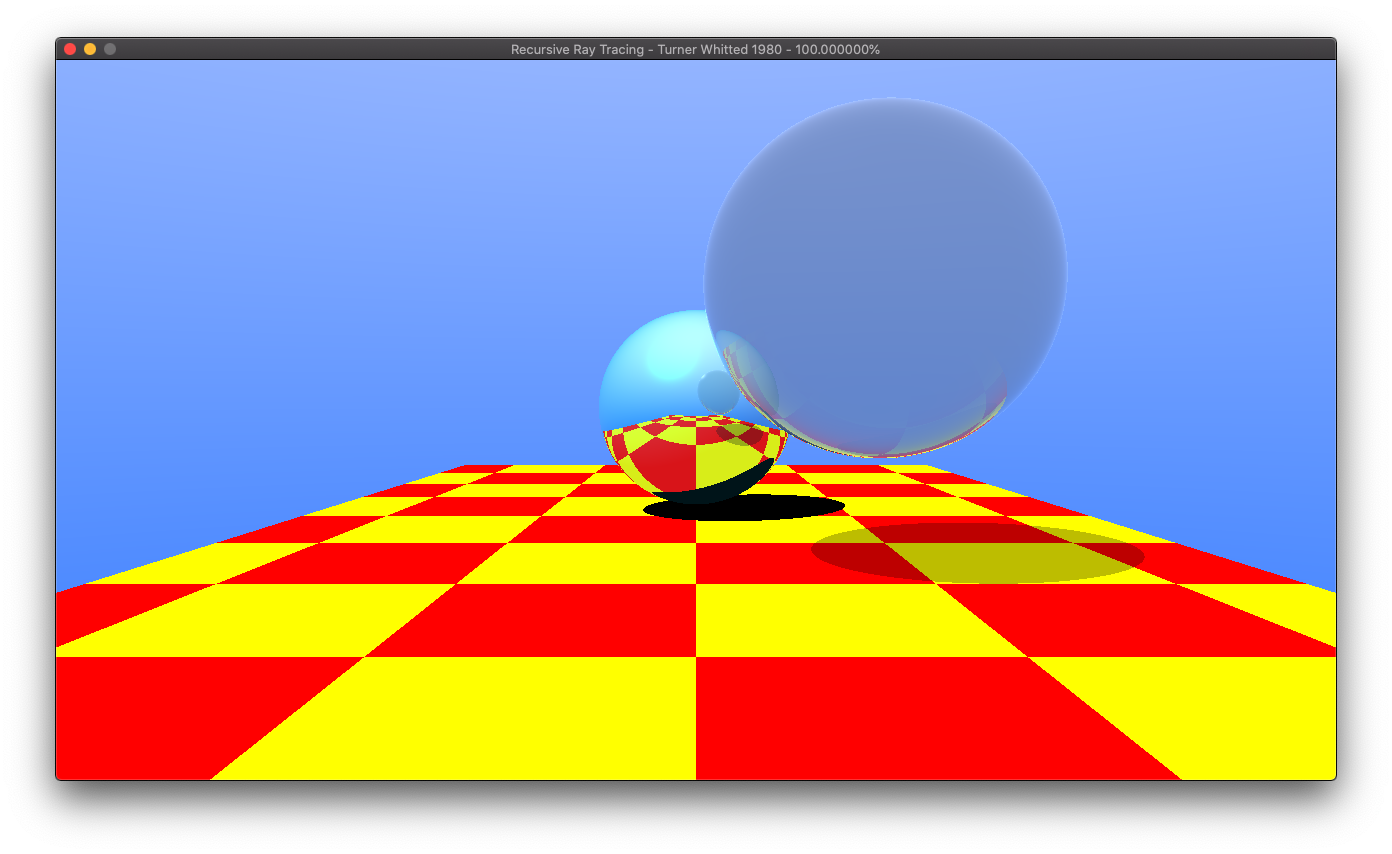
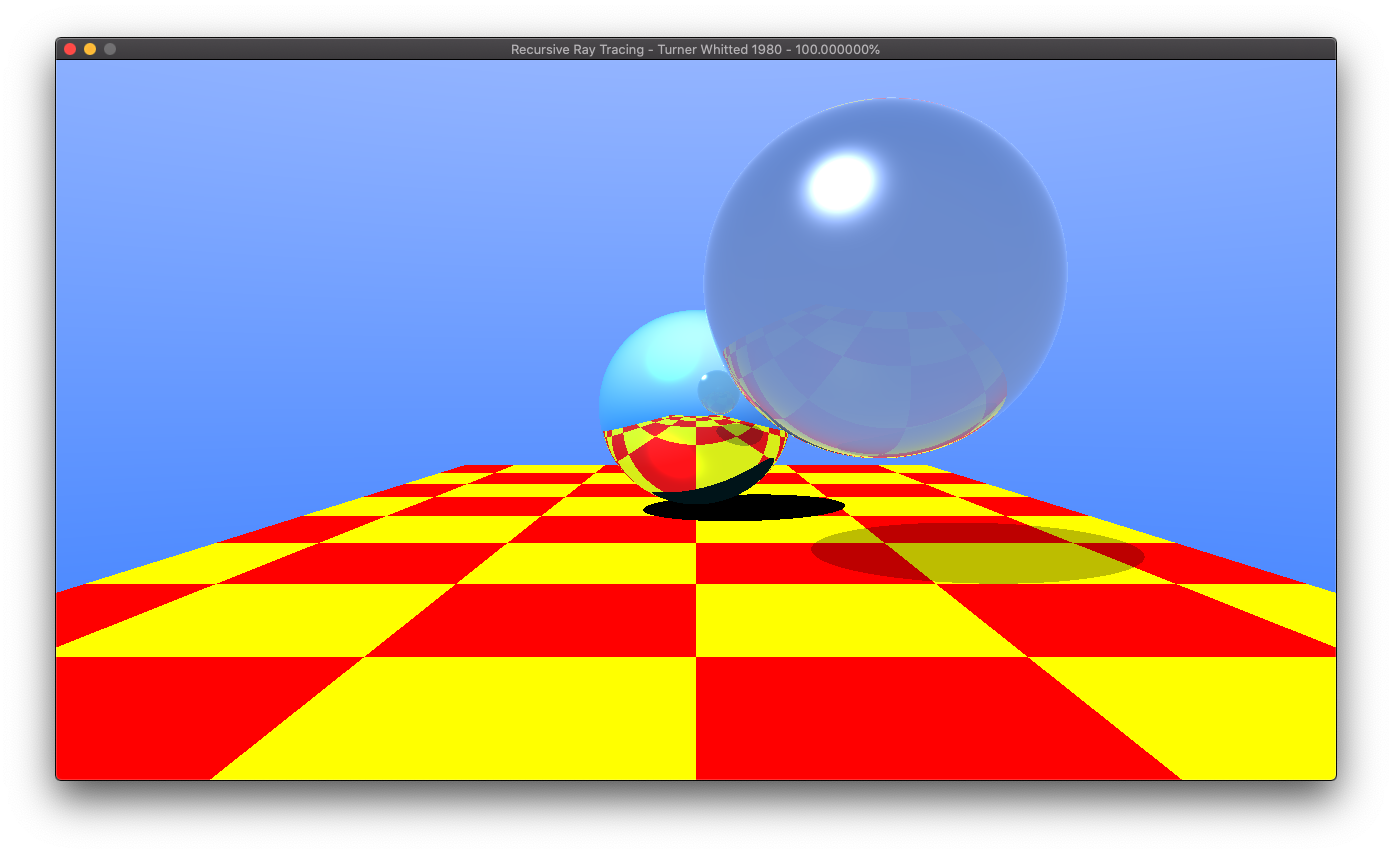
Whitted style ray tracing done

diff --git a/1980.Whitted/code/WhittedRayTracer.cpp b/1980.Whitted/code/WhittedRayTracer.cpp
@@ -95,6 +95,9 @@ glm::vec3 WhittedRayTracer::_rayShading(Ray ray, MyScene* pScene, int depth) {
     // diffuse lighting
     color += mtl->Kd * lgt.y * albedo;
 
+    // specular lighting
+    color += lgt.z * albedo;
+
     // refraction
     float reflectivity = 0.0f;
     if (mtl->Kt > 0) {
@@ -119,11 +122,7 @@ glm::vec3 WhittedRayTracer::_rayShading(Ray ray, MyScene* pScene, int depth) {
       Ray rRay = _generateReflectionRay(ray.direction, hitRec.p, hitRec.normal);
       glm::vec3 rColor = _rayShading(rRay, pScene, depth + 1);
       color += rColor * Ks;
-
-      // specular lighting
-      color += Ks * lgt.z * albedo;
     }
-
   }  // end of for each light
 
   return color;

diff --git a/1980.Whitted/code/Scene.h b/1980.Whitted/code/Scene.h
@@ -39,7 +39,7 @@ class Scene : public MyScene {
         .setRadius(1.2f)
         .createMaterial<Material>()
         .setColor(glm::vec3(1))
-        .setParam(0.0f, 0.0f, 0.7f, 60, 1.033f);
+        .setParam(0.0f, 0.0f, 0.7f, 80, 1.033f);
 
 // create lights
 #if 0
